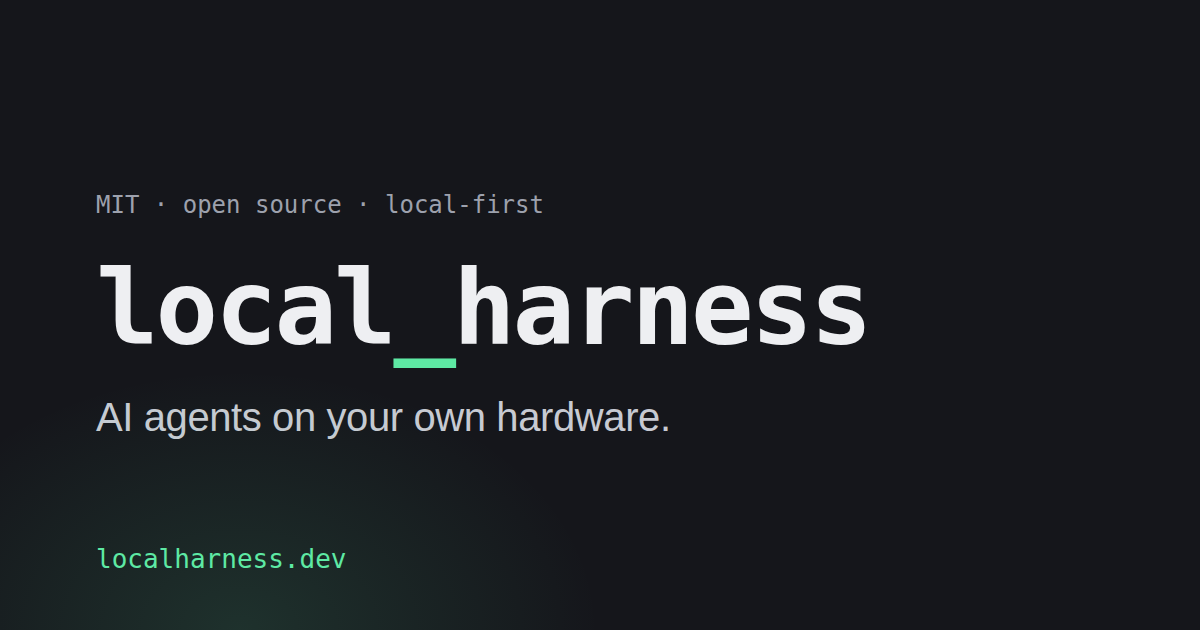
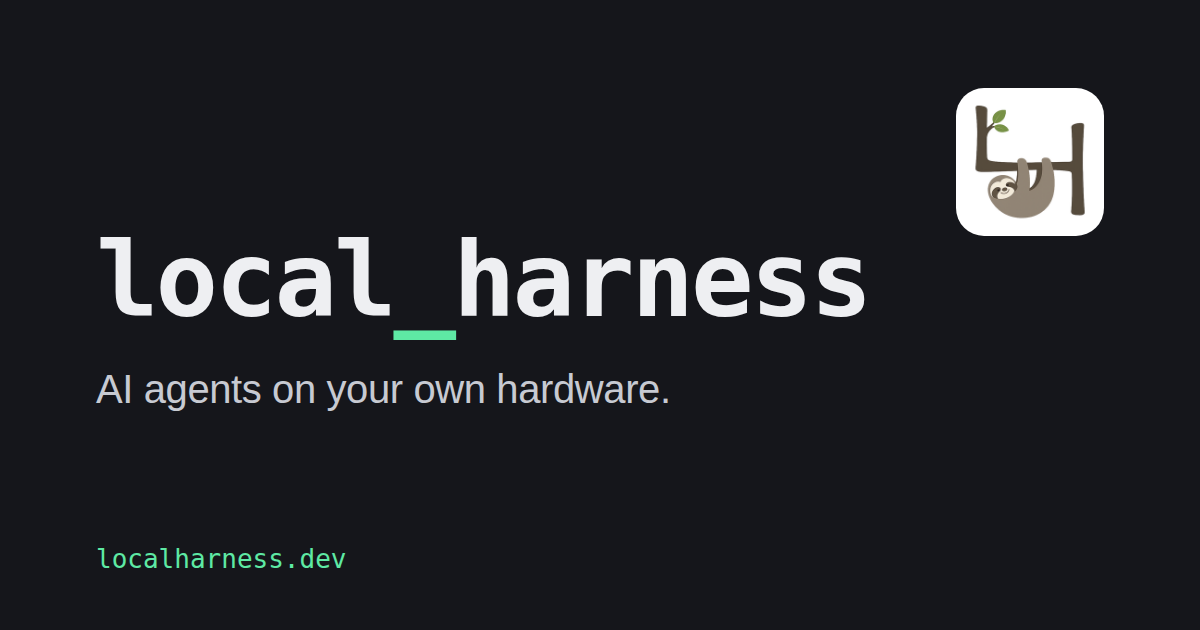
feat: brand assets wired + less-is-more copy pass; drop why-now card
Sloth logomark on white tiles (nav chip, favicon, apple-touch-icon, OG cards).
All copy tightened to one-liners; hero chips and card kickers removed.
Metering/why-now card removed per user — never mention it.

diff --git a/CLAUDE.md b/CLAUDE.md
@@ -16,6 +16,9 @@ Astro 5 + Tailwind v4, static output, GitHub Pages deploy, domain `localharness.
 - **Messaging is dead simple (user directive 2026-06-09): NO numbers/stats in copy.**
   Core message everywhere: *same workflow & output · longer time · much lower cost (free for local)*.
   No test counts, scenario counts, benchmark percentages, model parameter sizes, or version strings.
+- **Less is more — wording especially** (user directive): shortest words that say it. One-sentence
+  descriptions. Product screenshots-in-action (planned) carry the detail, not prose.
+- Do NOT mention the Anthropic Jun-15 metering change anywhere (user removed the "why now" card).
 - **Proof = example case studies, not benchmarks** (user directive 2026-06-09): the claim backs
   itself up via real migrations — the author's own production workloads first, then others tested.
   NEVER invent case-study content. Pre-launch the section frames receipts honestly as upcoming;
@@ -27,11 +30,15 @@ Astro 5 + Tailwind v4, static output, GitHub Pages deploy, domain `localharness.
 - Star-count badge stays behind `SHOW_STARS = false` until repos have stars.
 - Dark theme only; one accent (terminal green); animations limited to hover transitions + one CSS fade-in.
 
-## Asset contract (drop-in, then rebuild + `npm run og` + push)
+## Brand assets
 
-- `public/logo.svg` (or `logo.png` ≥360px wide) — Wordmark.astro auto-detects at build time, falls back to text wordmark
-- `public/favicon.svg` — replaces placeholder
-- `public/apple-touch-icon.png` — optional, 180×180
+Originals live in `brand/` (sloth logomark + icon + light-bg wordmark — designed for light
+backgrounds, so the site puts the mark on white rounded tiles). Generated web assets in `public/`:
+`logo-mark.png` (nav chip + OG cards), `favicon.png`, `apple-touch-icon.png` — regenerate from
+`brand/localharness-logomark.png` with the PIL tile script (trim 4% border first: export has edge
+artifacts; corners have semi-transparent haze, invisible on white). After regenerating:
+`npm run og` + rebuild + push. Wordmark.astro renders chip + `local_harness` text; text-only if
+logo-mark.png is missing.
 
 ## Launch-day flip (Jun 15, 2026)
 
